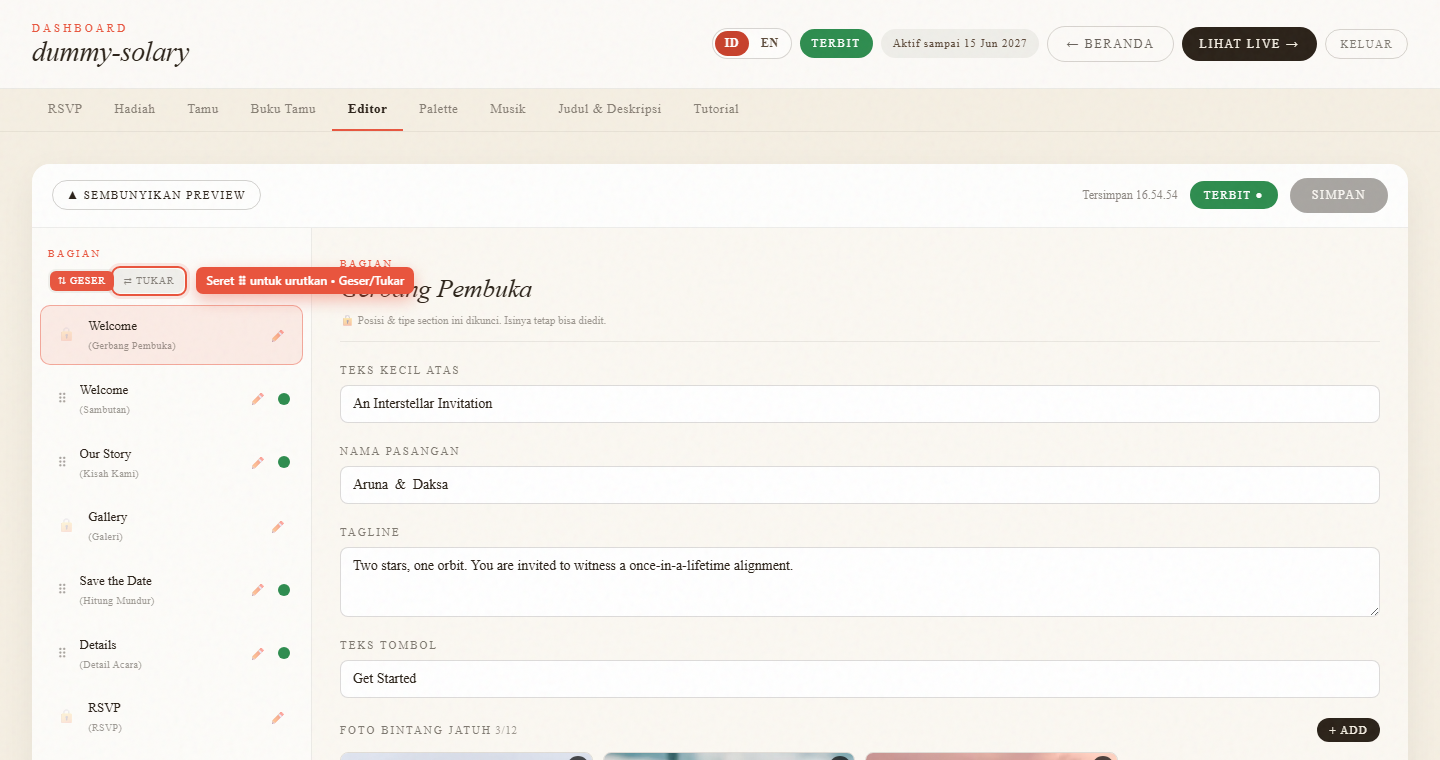
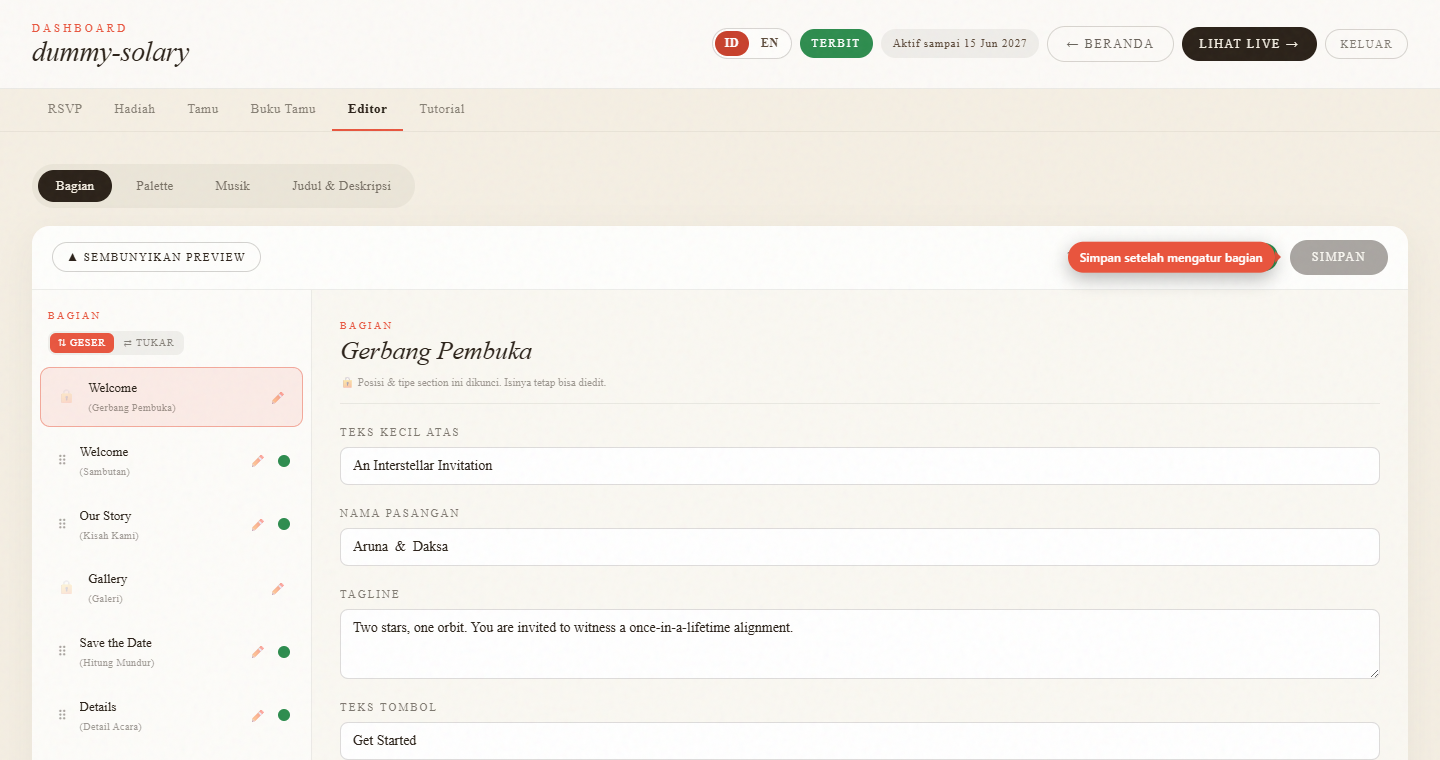
docs(tutorial): regenerate dashboard screenshots for the consolidated nav
The Tutorial tab images still showed the old dashboard nav, where Palette,
Music, Title & Description and Ornament were separate top-level tabs. They
are now sub-tabs under a single Editor tab, so every full-dashboard tutorial
shot was stale (and palette-grid also predated the new palette preview).

Re-capture all 19 nav-bearing shots for both templates (lovebirds + solary)
at the live dashboard with the current 6-tab layout, re-applying the red
annotation callouts as element-anchored overlays. Cropped detail shots and
designed infographics (editor-reorder, editor-gallery-rule, billing-*,
checklist/quickstart-roadmap, photos-map) do not show the nav and are left
unchanged.

Tooling: e2e/capture-tutorial.spec.ts + `npm run capture:tutorial` make this
repeatable on future layout changes. Gated behind CAPTURE=1 so the normal
e2e suite never logs in or overwrites assets.

diff --git a/e2e/capture-tutorial.spec.ts b/e2e/capture-tutorial.spec.ts
@@ -1,0 +1,198 @@
+import { test, type Page, type Locator } from '@playwright/test'
+
+/**
+ * Tutorial screenshot generator. Logs into the dummy dashboard for each template
+ * and re-captures every image referenced by the Tutorial tab into
+ * public/tutorial/<template>/<key>.png — with the red annotation callouts
+ * re-applied as DOM overlays anchored to the real elements (so they stay aligned
+ * even when the layout changes).
+ *
+ * Run:  npm run capture:tutorial         (both templates)
+ * It is NOT part of the normal e2e suite (separate file, run on demand).
+ */
+
+const PASS = 'DemoTutorial123!'
+const ACCOUNTS = {
+  lovebirds: { slug: 'dummy-lovebirds', email: 'dummy+dummy-lovebirds@example.com' },
+  solary: { slug: 'dummy-solary', email: 'dummy+dummy-solary@example.com' },
+} as const
+
+type Template = keyof typeof ACCOUNTS
+type Side = 'top' | 'bottom' | 'left' | 'right'
+
+interface Anno {
+  /** A Playwright selector for the element the callout points at. */
+  at: string
+  label: string
+  side?: Side
+}
+
+interface Shot {
+  key: string
+  /** capture height in CSS px from the top of the page (default 280 ≈ header+nav) */
+  height?: number
+  annos?: Anno[]
+}
+
+const VIEWPORT = { width: 1440, height: 1040 }
+
+test.use({ viewport: VIEWPORT, deviceScaleFactor: 1, actionTimeout: 8_000 })
+test.describe.configure({ mode: 'serial', retries: 0 })
+
+async function login(page: Page, tpl: Template) {
+  const { slug, email } = ACCOUNTS[tpl]
+  await page.goto(`/${tpl}/${slug}/dashboard`)
+  await page.locator('input[type="email"]').fill(email)
+  await page.locator('input[type="password"]').fill(PASS)
+  await page.locator('button[type="submit"]').click()
+  // Login form is replaced by the dashboard once the session lands.
+  await page.locator('input[type="password"]').waitFor({ state: 'detached', timeout: 40_000 })
+  await page.getByRole('heading', { name: slug }).waitFor({ timeout: 20_000 })
+}
+
+/** Click a top-level dashboard tab by its visible label. */
+async function clickTab(page: Page, label: string) {
+  await page.getByRole('button', { name: label, exact: true }).first().click()
+  await page.waitForTimeout(500)
+}
+
+/** Inject the red callout overlays anchored to live element boxes, then settle. */
+async function annotate(page: Page, annos: Anno[]) {
+  const items: { box: { x: number; y: number; width: number; height: number }; label: string; side: Side }[] = []
+  for (const a of annos) {
+    const loc: Locator = page.locator(a.at).first()
+    const box = await loc.boundingBox({ timeout: 2500 }).catch(() => null)
+    if (box) items.push({ box, label: a.label, side: a.side ?? 'bottom' })
+  }
+  const evalP = page.evaluate((data) => {
+    document.getElementById('__tut_anno')?.remove()
+    const layer = document.createElement('div')
+    layer.id = '__tut_anno'
+    layer.style.cssText = 'position:fixed;inset:0;z-index:2147483647;pointer-events:none;'
+    const RED = '#E8553E'
+    for (const it of data) {
+      const { box, label, side } = it
+      const cx = box.x + box.width / 2
+      const cy = box.y + box.height / 2
+      const gap = 9
+      const pill = document.createElement('div')
+      pill.textContent = label
+      pill.style.cssText =
+        'position:fixed;background:' + RED + ';color:#fff;font-family:system-ui,-apple-system,sans-serif;' +
+        'font-size:12px;font-weight:600;letter-spacing:.01em;padding:6px 12px;border-radius:999px;' +
+        'box-shadow:0 6px 18px rgba(0,0,0,.28);white-space:nowrap;'
+      const tri = document.createElement('div')
+      tri.style.cssText = 'position:fixed;width:0;height:0;'
+      const T = 6
+      if (side === 'bottom') {
+        pill.style.left = cx + 'px'; pill.style.top = box.y + box.height + gap + T + 'px'; pill.style.transform = 'translateX(-50%)'
+        tri.style.left = cx + 'px'; tri.style.top = box.y + box.height + gap + 'px'; tri.style.transform = 'translateX(-50%)'
+        tri.style.borderLeft = T + 'px solid transparent'; tri.style.borderRight = T + 'px solid transparent'
+        tri.style.borderBottom = T + 'px solid ' + RED
+      } else if (side === 'top') {
+        pill.style.left = cx + 'px'; pill.style.top = box.y - gap - T + 'px'; pill.style.transform = 'translate(-50%,-100%)'
+        tri.style.left = cx + 'px'; tri.style.top = box.y - gap - T + 'px'; tri.style.transform = 'translateX(-50%)'
+        tri.style.borderLeft = T + 'px solid transparent'; tri.style.borderRight = T + 'px solid transparent'
+        tri.style.borderTop = T + 'px solid ' + RED
+      } else if (side === 'right') {
+        pill.style.left = box.x + box.width + gap + T + 'px'; pill.style.top = cy + 'px'; pill.style.transform = 'translateY(-50%)'
+        tri.style.left = box.x + box.width + gap + 'px'; tri.style.top = cy + 'px'; tri.style.transform = 'translateY(-50%)'
+        tri.style.borderTop = T + 'px solid transparent'; tri.style.borderBottom = T + 'px solid transparent'
+        tri.style.borderRight = T + 'px solid ' + RED
+      } else {
+        pill.style.left = box.x - gap - T + 'px'; pill.style.top = cy + 'px'; pill.style.transform = 'translate(-100%,-50%)'
+        tri.style.left = box.x - gap - T + 'px'; tri.style.top = cy + 'px'; tri.style.transform = 'translateY(-50%)'
+        tri.style.borderTop = T + 'px solid transparent'; tri.style.borderBottom = T + 'px solid transparent'
+        tri.style.borderLeft = T + 'px solid ' + RED
+      }
+      layer.appendChild(tri)
+      layer.appendChild(pill)
+    }
+    document.body.appendChild(layer)
+  }, items)
+  await Promise.race([
+    evalP,
+    new Promise((_, rej) => setTimeout(() => rej(new Error('annotate evaluate timed out (10s)')), 10_000)),
+  ])
+}
+
+async function clearAnnotations(page: Page) {
+  await page.evaluate(() => document.getElementById('__tut_anno')?.remove())
+}
+
+async function capture(page: Page, tpl: Template, shot: Shot) {
+  if (shot.annos?.length) await annotate(page, shot.annos)
+  await page.screenshot({
+    path: `public/tutorial/${tpl}/${shot.key}.png`,
+    clip: { x: 0, y: 0, width: VIEWPORT.width, height: shot.height ?? 280 },
+  })
+  await clearAnnotations(page)
+}
+
+/** Navigate to an editor sub-tab (clicks the Editor top-tab, then the sub-tab).
+ *  Editor sub-tabs render as role="tab" (not button). */
+async function goEditor(page: Page, subLabel: string) {
+  await clickTab(page, 'Editor')
+  await page.getByRole('tab', { name: subLabel, exact: true }).first().click()
+  await page.waitForTimeout(700)
+}
+
+interface ShotDef extends Shot {
+  go: (page: Page) => Promise<void>
+}
+
+/** Shots that show the dashboard nav/header and so went stale when the nav was
+ *  consolidated (Palette/Music/Meta/Ornament moved UNDER Editor). Cropped detail
+ *  shots + designed infographics (checklist/quickstart-roadmap, photos-map,
+ *  editor-reorder, editor-gallery-rule, billing-*) don't show the nav and are
+ *  left untouched. */
+const A = {
+  publish: { at: ':text-is("Terbit")', label: 'Status Terbit / Draf', side: 'bottom' as Side },
+  viewLive: { at: 'a:has-text("Lihat live")', label: 'Cek tampilan tamu', side: 'bottom' as Side },
+  csvRsvp: { at: 'button:has-text("Unduh CSV")', label: 'Unduh data RSVP', side: 'bottom' as Side },
+  csvGift: { at: 'button:has-text("Unduh CSV")', label: 'Unduh data hadiah', side: 'bottom' as Side },
+  csvBook: { at: 'button:has-text("Unduh CSV")', label: 'Ekspor buku tamu', side: 'bottom' as Side },
+  paletteSel: { at: 'button[role="radio"][aria-checked="true"]', label: 'Palette terpilih', side: 'right' as Side },
+  saveLeft: (label: string): Anno => ({ at: 'button:has-text("Simpan")', label, side: 'left' }),
+}
+
+const SHOTS: Record<Template, ShotDef[]> = {
+  lovebirds: [
+    { key: 'start-header', height: 175, go: (p) => clickTab(p, 'RSVP'), annos: [A.publish, A.viewLive] },
+    { key: 'rsvps-table', height: 603, go: (p) => clickTab(p, 'RSVP'), annos: [A.csvRsvp] },
+    { key: 'gifts-table', height: 597, go: (p) => clickTab(p, 'Hadiah'), annos: [A.csvGift] },
+    { key: 'guests-share', height: 994, go: (p) => clickTab(p, 'Tamu'), annos: [{ at: 'button:has-text("Impor"), button:has-text("Import")', label: 'Impor daftar tamu', side: 'bottom' }] },
+    { key: 'guestbook-ledger', height: 826, go: (p) => clickTab(p, 'Buku Tamu'), annos: [A.csvBook] },
+    { key: 'editor-list', height: 760, go: (p) => goEditor(p, 'Bagian'), annos: [A.saveLeft('Simpan setelah mengatur bagian')] },
+    { key: 'editor-save', height: 520, go: (p) => goEditor(p, 'Bagian'), annos: [A.saveLeft('Klik Simpan setiap selesai')] },
+    { key: 'palette-grid', height: 780, go: (p) => goEditor(p, 'Palette'), annos: [A.paletteSel, A.saveLeft('Simpan pilihan')] },
+    { key: 'music-upload', height: 780, go: (p) => goEditor(p, 'Musik'), annos: [A.saveLeft('Simpan musik')] },
+    { key: 'ornament-pick', height: 760, go: (p) => goEditor(p, 'Ornamen'), annos: [A.saveLeft('Simpan ornamen')] },
+  ],
+  solary: [
+    { key: 'start-header', height: 175, go: (p) => clickTab(p, 'RSVP'), annos: [A.publish, A.viewLive] },
+    { key: 'rsvps-table', height: 603, go: (p) => clickTab(p, 'RSVP'), annos: [A.csvRsvp] },
+    { key: 'gifts-table', height: 597, go: (p) => clickTab(p, 'Hadiah'), annos: [A.csvGift] },
+    { key: 'guests-share', height: 914, go: (p) => clickTab(p, 'Tamu'), annos: [{ at: 'button:has-text("Impor"), button:has-text("Import")', label: 'Impor daftar tamu', side: 'bottom' }] },
+    { key: 'guestbook-ledger', height: 826, go: (p) => clickTab(p, 'Buku Tamu'), annos: [A.csvBook] },
+    { key: 'editor-list', height: 760, go: (p) => goEditor(p, 'Bagian'), annos: [A.saveLeft('Simpan setelah mengatur bagian')] },
+    { key: 'editor-save', height: 520, go: (p) => goEditor(p, 'Bagian'), annos: [A.saveLeft('Klik Simpan setiap selesai')] },
+    { key: 'palette-grid', height: 780, go: (p) => goEditor(p, 'Palette'), annos: [A.paletteSel, A.saveLeft('Simpan pilihan')] },
+    { key: 'music-upload', height: 780, go: (p) => goEditor(p, 'Musik'), annos: [A.saveLeft('Simpan musik')] },
+  ],
+}
+
+for (const tpl of ['lovebirds', 'solary'] as Template[]) {
+  test(`capture ${tpl}`, async ({ page }) => {
+    // On-demand only: the normal e2e suite must not log in / overwrite assets.
+    test.skip(process.env.CAPTURE !== '1', 'Run via: npm run capture:tutorial')
+    test.setTimeout(300_000)
+    await login(page, tpl)
+    for (const shot of SHOTS[tpl]) {
+      await shot.go(page)
+      await page.waitForTimeout(400)
+      await capture(page, tpl, shot)
+      console.log(`[capture] ${tpl}/${shot.key}.png`)
+    }
+  })
+}
